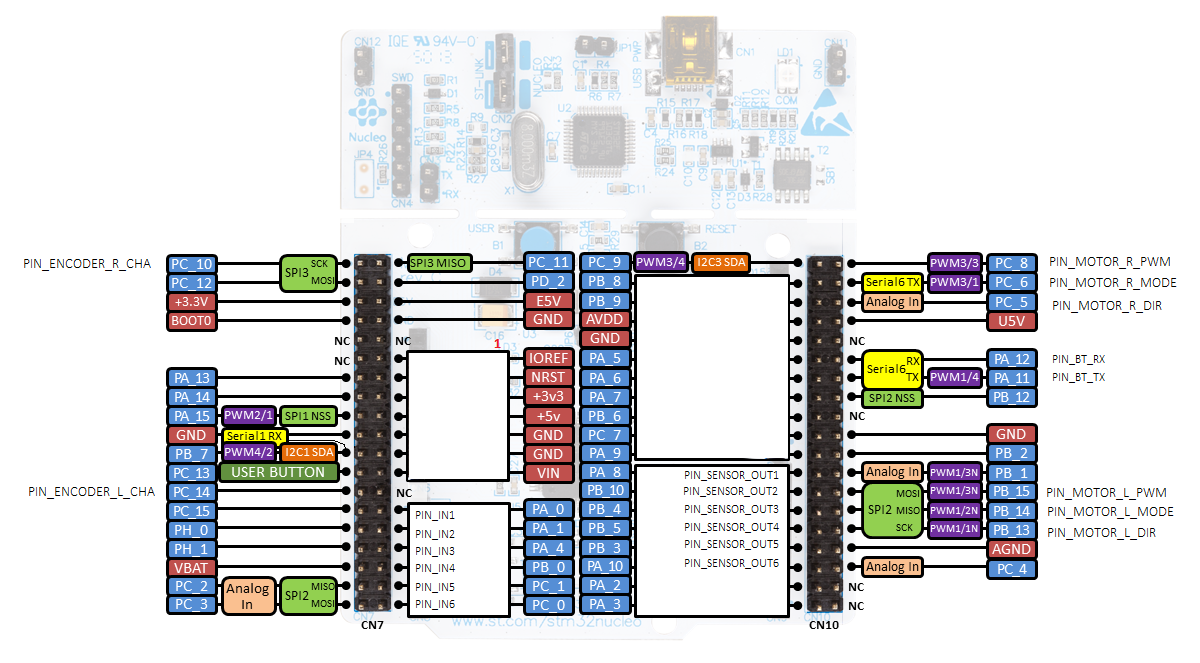
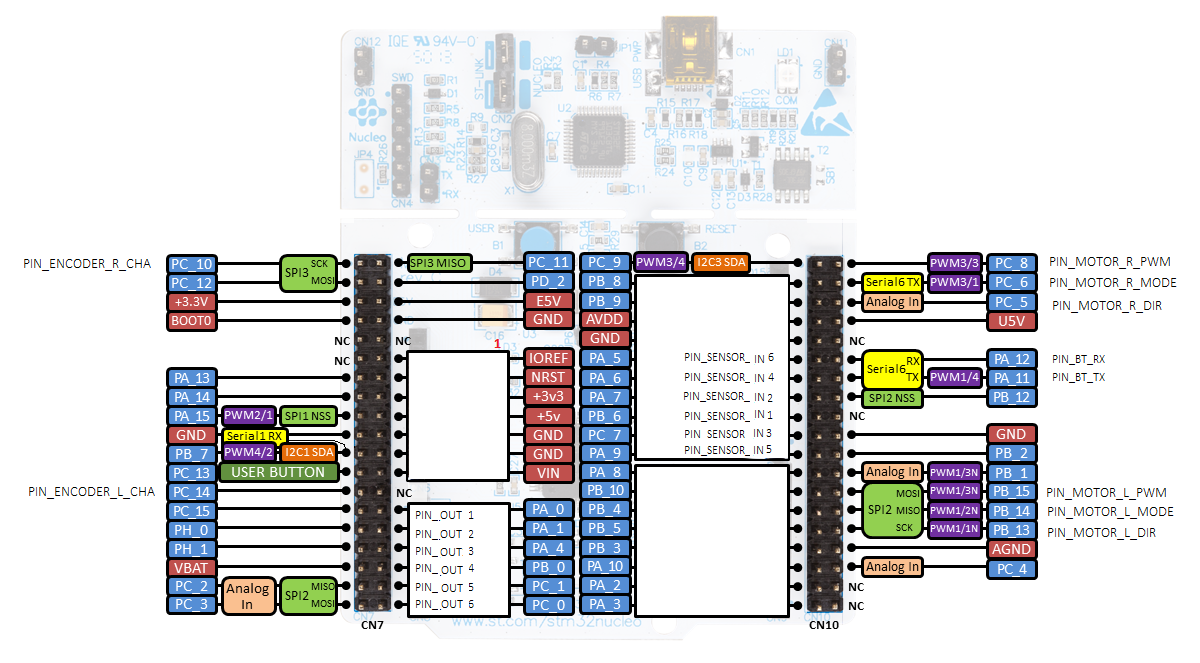
Update pin interface

Changed region(s): [[0.555, 0.5128, 0.6475, 0.8748], [0.37, 0.7541, 0.4008, 0.9351]]

diff --git a/TD3_control/main.cpp b/TD3_control/main.cpp
@@ -25,19 +25,19 @@
 #define PIN_ENCODER_L_CHA PC_14
 #define PIN_ENCODER_R_CHA PC_10
 
-#define PIN_SENSOR_IN1 PA_0     // ADC
-#define PIN_SENSOR_IN2 PA_1     // ADC
-#define PIN_SENSOR_IN3 PA_4     // ADC
-#define PIN_SENSOR_IN4 PB_0     // ADC
-#define PIN_SENSOR_IN5 PC_1     // ADC
-#define PIN_SENSOR_IN6 PC_0     // ADC
+#define PIN_SENSOR_OUT1 PA_0     // ADC
+#define PIN_SENSOR_OUT2 PA_1     // ADC
+#define PIN_SENSOR_OUT3 PA_4     // ADC
+#define PIN_SENSOR_OUT4 PB_0     // ADC
+#define PIN_SENSOR_OUT5 PC_1     // ADC
+#define PIN_SENSOR_OUT6 PC_0     // ADC
 
-#define PIN_SENSOR_OUT1 PA_8
-#define PIN_SENSOR_OUT2 PB_10
-#define PIN_SENSOR_OUT3 PB_4
-#define PIN_SENSOR_OUT4 PB_5
-#define PIN_SENSOR_OUT5 PB_3
-#define PIN_SENSOR_OUT6 PA_10
+#define PIN_SENSOR_IN1 PB_6
+#define PIN_SENSOR_IN2 PA_7
+#define PIN_SENSOR_IN3 PC_7
+#define PIN_SENSOR_IN4 PA_6
+#define PIN_SENSOR_IN5 PA_9
+#define PIN_SENSOR_IN6 PA_5
 
 // Velocity measurement and control config
 #define SAMPLING_FREQUENCY 2            // Velocity measurement sampling frequency [Hz]
